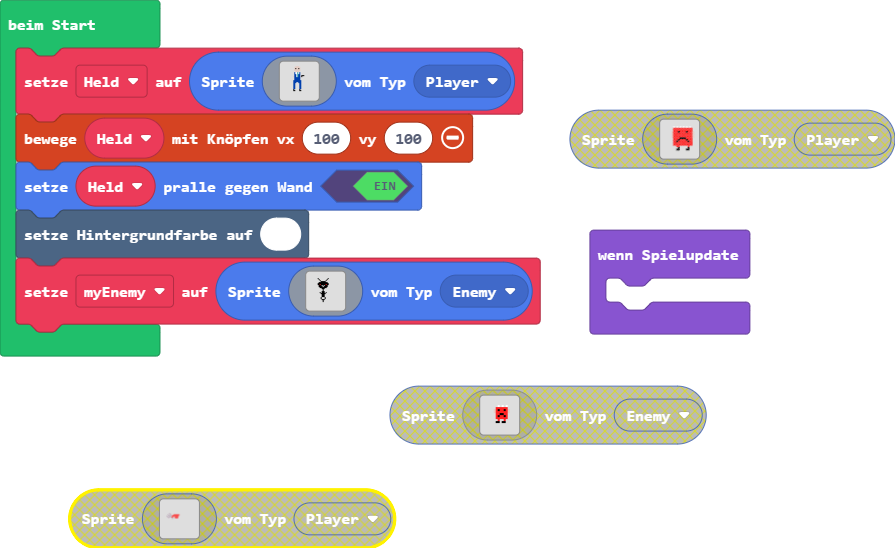
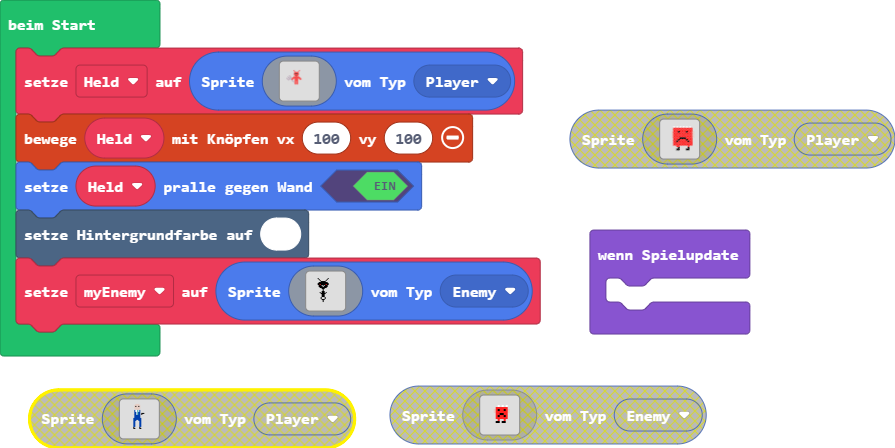
Aktualisiere main.blocks, main.ts

diff --git a/main.ts b/main.ts
@@ -1,36 +1,54 @@
 let Held = sprites.create(img`
-    ................................
-    ............dddd................
-    ...........dddddd...............
-    ...........dfddfd...............
-    ...........dddddd...............
-    ...........dddddd...............
-    ............dddd................
-    ...........811618...............
-    ...........811618...............
-    ...........881688...............
-    ...........881688.fff...........
-    ..........d881688df.............
-    ...........888888...............
-    ...........888888...............
-    ...........888888...............
-    ..........88888888..............
-    ..........88888888..............
-    ..........888..888..............
-    ..........88....88..............
-    ..........88....88..............
-    ..........88....88..............
-    ..........88....88..............
-    ..........88....88..............
-    ..........88....88..............
-    ..........f.....f...............
-    ..........ff....ff..............
-    ................................
-    ................................
-    ................................
-    ................................
-    ................................
-    ................................
+    ..................................................
+    ..................................................
+    ..................................................
+    ..................................................
+    ..................................................
+    ..................................................
+    ..................................................
+    ..................................................
+    ................2........2........................
+    .................2......2.........................
+    ..................2....2..........................
+    ..................22222...........................
+    .................2222222..........................
+    .................2fffff2..........................
+    .................2222222..........................
+    .................2222222..........................
+    .........b........22f22...........................
+    ..........b........222............................
+    .......b...b....222222222.........................
+    ........b...b..22222222222........................
+    .....b...b.b..2222222222222.......................
+    ......b...b..222..22222..222......................
+    .......b.b..b22...22222...22......................
+    ........b....b....22222...........................
+    ..............b...22222...........................
+    ...............b..22.22...........................
+    ................b.22.22...........................
+    ..................22.22...........................
+    ..................22.22...........................
+    ..................22.22...........................
+    ..................................................
+    ..................................................
+    ..................................................
+    ..................................................
+    ..................................................
+    ..................................................
+    ..................................................
+    ..................................................
+    ..................................................
+    ..................................................
+    ..................................................
+    ..................................................
+    ..................................................
+    ..................................................
+    ..................................................
+    ..................................................
+    ..................................................
+    ..................................................
+    ..................................................
+    ..................................................
     `, SpriteKind.Player)
 controller.moveSprite(Held, 100, 100)
 Held.setBounceOnWall(true)
